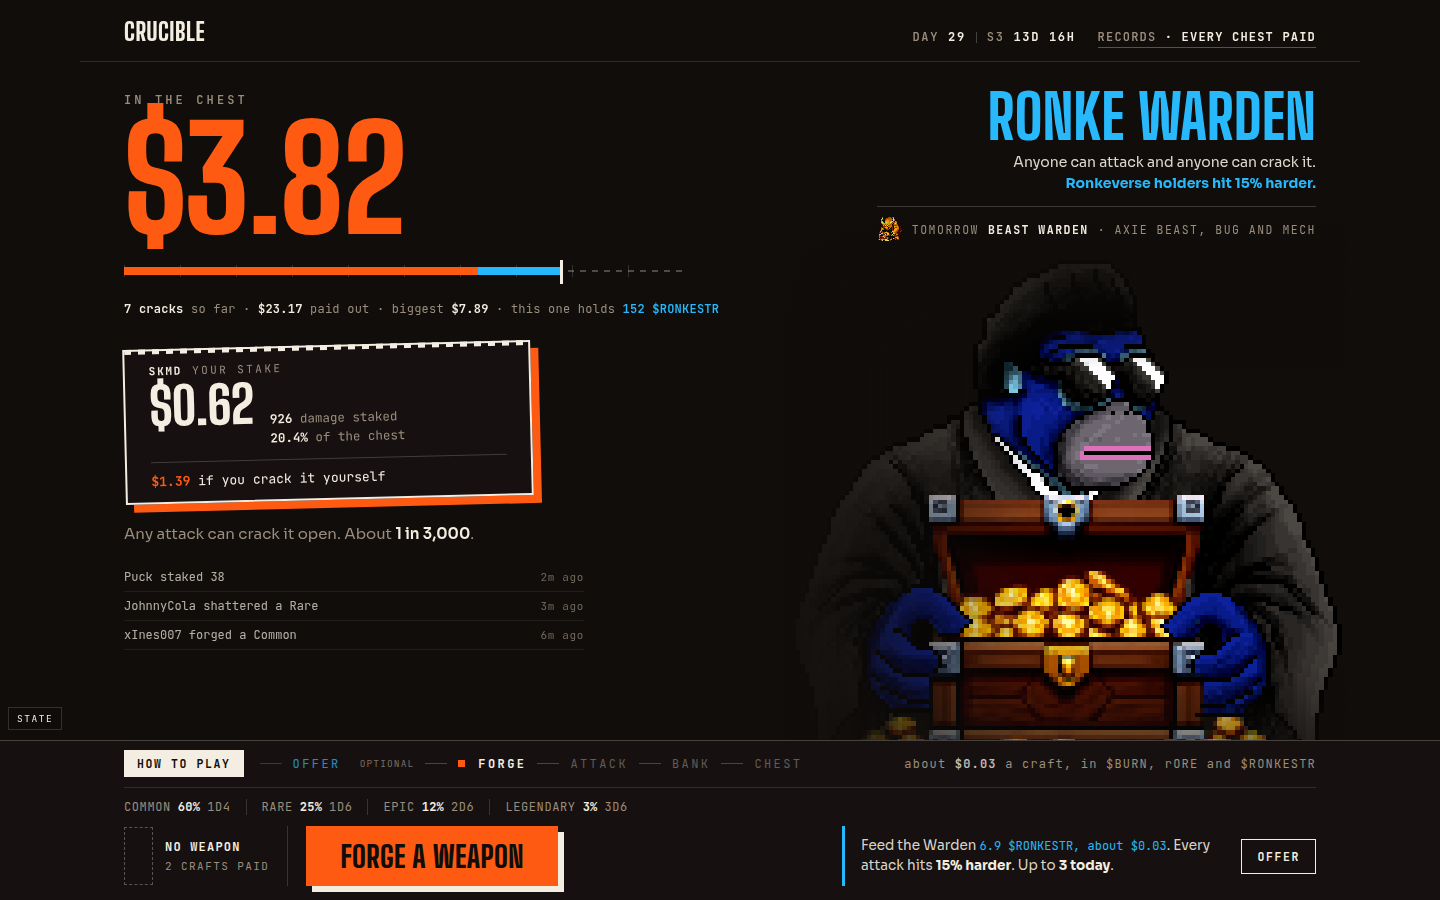
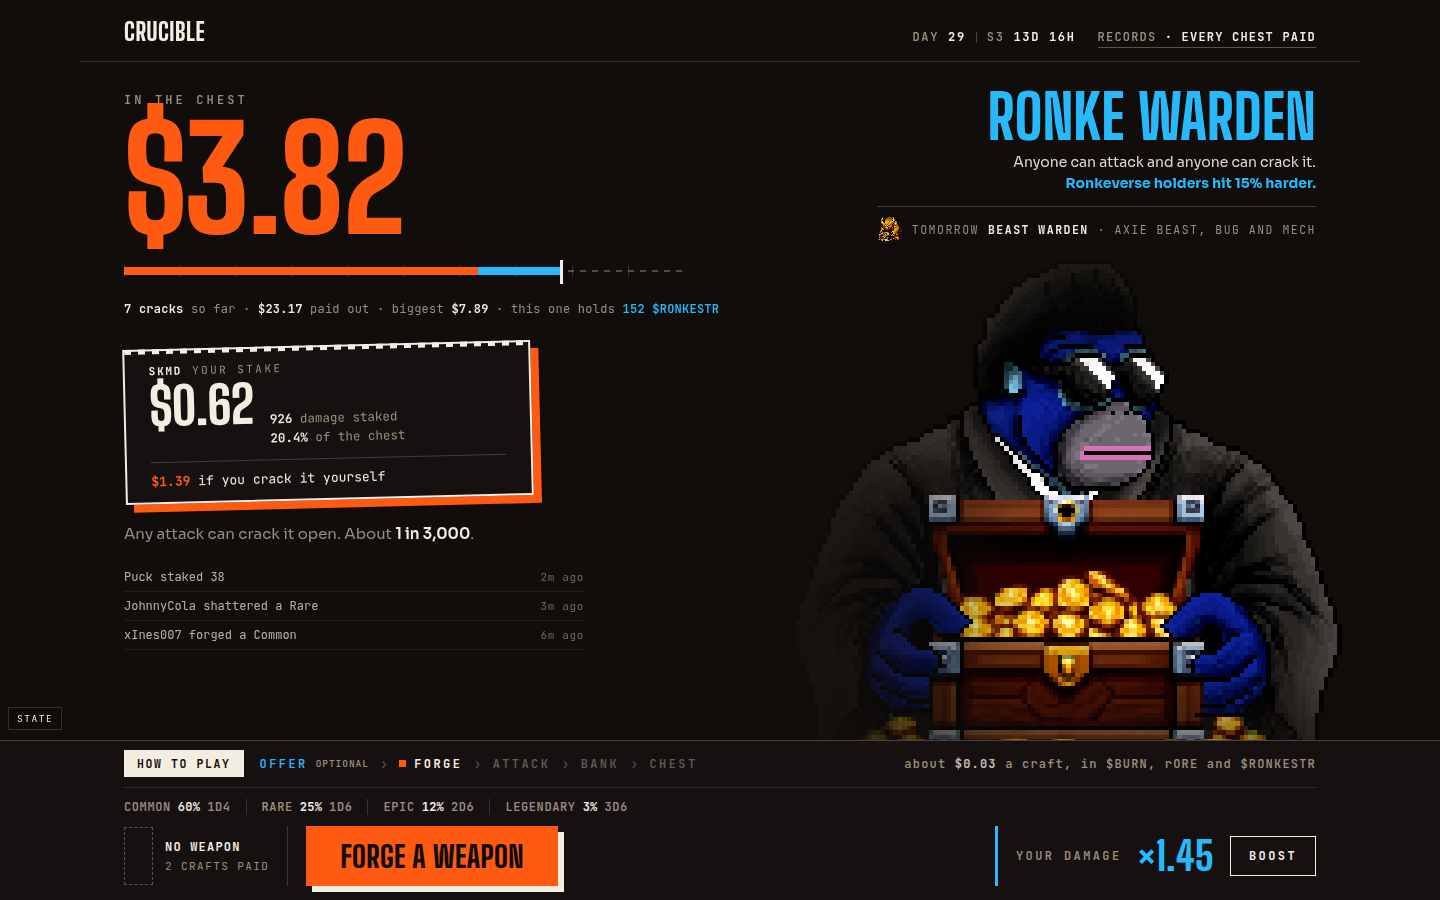
arena: D rev3, rail typography and consolidated boosts

Changed region(s): [[0.5938, 0.9333, 0.9062, 0.9956], [0.1875, 0.84, 0.5, 0.8711], [0.5312, 0.84, 0.5625, 0.8711]]

diff --git a/mockups/arena/arena-d-synthesis.html b/mockups/arena/arena-d-synthesis.html
@@ -254,46 +254,50 @@ button{font:inherit;color:inherit;background:none;border:0;cursor:pointer}
 /* C's rail as a line, not four boxes. Current station is the BRIGHTEST thing
    on it: in C the live step was orange and the steps ahead were white, so the
    steps you could not reach shouted loudest. */
+/* ONE type system for the whole rail: mono, uppercase, 12px, two weights.
+   Labels are muted 600, values are bone 700. The display face appears on
+   exactly two things down here, the Attack and Bank buttons, because they are
+   the only objects that are not data. No underlines, no third size, no second
+   body font. */
 .line{
   display:flex;align-items:center;gap:0;
   padding:9px 0 10px;border-bottom:1px solid rgba(244,237,225,.12);
-  font-family:var(--mono);font-size:12px;letter-spacing:.2em;text-transform:uppercase;
+  font-family:var(--mono);font-size:12px;font-weight:600;
+  letter-spacing:.2em;text-transform:uppercase;
 }
-.line .st{display:flex;align-items:center;gap:11px;color:rgba(244,237,225,.34)}
-.line .st + .st{margin-left:11px}
-.line .st::before{content:"";width:22px;height:1px;background:rgba(244,237,225,.24);display:block}
-.line .st:first-child::before{display:none}
+.line .st{display:flex;align-items:center;gap:8px;color:rgba(244,237,225,.34)}
+.line .chev{color:rgba(244,237,225,.26);margin:0 11px;font-size:14px;letter-spacing:0}
 .line .st.done{color:rgba(244,237,225,.5)}
 .line .st.live{color:var(--bone);font-weight:700}
-.line .st.live em{
-  font-style:normal;display:inline-block;width:7px;height:7px;background:var(--ember);
-  margin-right:2px;
+/* the one state marker in the rail, reused everywhere it is needed rather than
+   inventing a second device */
+.line .st.live em,.status .s.risked b::before{
+  content:"";font-style:normal;display:inline-block;
+  width:7px;height:7px;background:var(--ember);
 }
-.line .st.ready{color:var(--bone);font-weight:600}
-.line .st.ready s{text-decoration:none;border-bottom:2px solid var(--ember);padding-bottom:2px}
+.line .st.ready{color:var(--bone);font-weight:700}
 /* the offering leads the sequence because it only buffs attacks that come
    after it, but it is optional and must not read as a gate */
-.line .st.opt{color:var(--warden);opacity:.75}
-.line .st.opt::after{content:"optional";margin-left:8px;font-size:9.5px;letter-spacing:.12em;color:var(--muted)}
+.line .st.opt{color:var(--warden)}
+.line .st.opt::after{content:"optional";font-size:9.5px;letter-spacing:.1em;color:var(--muted)}
 /* the craft price has to survive into the armed state: that is where the
    repeat spending happens and every direction dropped it there */
-.line .price{margin-left:auto;color:var(--muted);letter-spacing:.1em;text-transform:none;font-size:12px}
-.line .price b{color:rgba(244,237,225,.8);font-weight:600}
+.line .price{margin-left:auto;color:var(--muted);letter-spacing:.1em;text-transform:none}
+.line .price b{color:rgba(244,237,225,.8);font-weight:700}
 
 .status{
   display:flex;align-items:center;gap:0;flex-wrap:wrap;margin-top:11px;
-  font-family:var(--mono);font-size:12px;letter-spacing:.05em;
+  font-family:var(--mono);font-size:12px;font-weight:600;letter-spacing:.05em;
   text-transform:uppercase;color:var(--muted);
 }
-.status .s{padding:0 15px;display:flex;align-items:baseline;gap:7px;border-left:1px solid rgba(244,237,225,.16)}
+.status .s{padding:0 15px;display:flex;align-items:center;gap:7px;border-left:1px solid rgba(244,237,225,.16)}
 .status .s:first-child{padding-left:0;border-left:0}
-.status .s b{color:var(--bone);font-weight:700;letter-spacing:.02em}
+.status .s b{color:var(--bone);font-weight:700;letter-spacing:.02em;display:flex;align-items:center;gap:6px}
 .status .s.tier b{color:var(--warden)}
-/* banked vs at-risk cannot be told apart by hue alone: it is money state at
-   ~10px, and it failed for the colour-blind reviewer in every direction */
-.status .s.safe b{border-bottom:2px solid rgba(244,237,225,.55);padding-bottom:1px}
-.status .s.risked b{color:var(--ember);border-bottom:2px dashed var(--ember);padding-bottom:1px}
-.status .s.risked::after{content:"at risk";position:absolute;left:-9999px}
+/* at-risk is marked by the same ember square the live station uses, not by a
+   colour or an underline of its own: money state must survive colour blindness
+   and it must not add a device */
+.status .s.risked b{color:var(--ember)}
 
 .meter{display:flex;gap:3px;margin-left:4px}
 .meter i{width:7px;height:12px;background:rgba(244,237,225,.16);display:block}
@@ -324,21 +328,58 @@ button{font:inherit;color:inherit;background:none;border:0;cursor:pointer}
 .btn-ghost:active{transform:translate(3px,3px);box-shadow:2px 2px 0 rgba(244,237,225,.24)}
 .btn small{font-family:var(--mono);font-size:13px;font-weight:600;letter-spacing:.04em;opacity:.85}
 
-/* the offering is priced in dollars like everything else. Leaving it in raw
-   tokens, two inches under a pot we happily price, read as deliberate. */
-.offering{
+/* every multiplier collapsed into one object: a label, a number, a button.
+   Same mono system as the rest of the rail. */
+.boost{
   margin-left:auto;display:flex;align-items:center;gap:16px;
-  border-left:3px solid var(--warden);padding:6px 0 6px 16px;max-width:474px;
+  border-left:3px solid var(--warden);padding:4px 0 4px 18px;
 }
-.offering p{font-size:13.5px;line-height:1.45;color:rgba(244,237,225,.9)}
-.offering p b{color:var(--bone);font-weight:700}
-.offering p em{font-style:normal;color:var(--warden);font-family:var(--mono);font-size:12px}
-.btn-offer{
-  border:1px solid var(--bone);color:var(--bone);padding:9px 15px;white-space:nowrap;
-  font-family:var(--mono);font-size:11.5px;font-weight:700;letter-spacing:.14em;text-transform:uppercase;
+.boost-k{
+  font-family:var(--mono);font-size:12px;font-weight:600;letter-spacing:.2em;
+  text-transform:uppercase;color:var(--muted);
+}
+.boost-v{
+  font-family:var(--disp);font-weight:800;font-size:40px;line-height:.9;
+  color:var(--warden);font-variant-numeric:tabular-nums;
+}
+.btn-boost{
+  border:1px solid var(--bone);color:var(--bone);padding:11px 18px;white-space:nowrap;
+  font-family:var(--mono);font-size:12px;font-weight:700;letter-spacing:.2em;text-transform:uppercase;
   transition:background .15s ease,color .15s ease;
 }
-.btn-offer:hover{background:var(--bone);color:var(--ink)}
+.btn-boost:hover{background:var(--bone);color:var(--ink)}
+
+/* buff list inside the boost sheet, same two-weight mono discipline */
+.buffs{list-style:none;margin-top:4px}
+.buffs li{
+  display:grid;grid-template-columns:auto 1fr auto;gap:14px;align-items:baseline;
+  padding:13px 0 12px;border-bottom:1px solid rgba(244,237,225,.1);
+}
+.buffs .tag{
+  font-family:var(--mono);font-size:10.5px;font-weight:700;letter-spacing:.16em;
+  text-transform:uppercase;padding:3px 7px;
+}
+.buffs li.on .tag{background:var(--ember);color:var(--ink)}
+.buffs li.off .tag{border:1px solid rgba(244,237,225,.3);color:var(--muted)}
+.buffs .nm{font-size:16px;font-weight:700}
+.buffs li.off .nm{color:var(--muted)}
+.buffs .amt{font-family:var(--mono);font-size:15px;font-weight:700;color:var(--bone)}
+.buffs li.off .amt{color:var(--muted)}
+.buffs p{grid-column:2 / -1;margin-top:5px;font-size:13px;line-height:1.5;color:var(--muted)}
+
+.buff-sum{
+  display:flex;align-items:baseline;gap:10px;margin-top:16px;padding-top:14px;
+  border-top:3px solid var(--bone);
+  font-family:var(--mono);font-size:11.5px;font-weight:600;letter-spacing:.18em;
+  text-transform:uppercase;color:var(--muted);
+}
+.buff-sum b{font-family:var(--disp);font-weight:800;font-size:32px;line-height:.9;letter-spacing:0}
+.buff-sum b.now{color:var(--warden)}
+.buff-sum b.max{color:var(--bone)}
+.buff-sum .arrow{margin:0 4px}
+.sheet-fine{
+  margin-top:11px;font-family:var(--mono);font-size:11px;line-height:1.5;color:var(--muted);
+}
 
 body[data-state="forge"] .only-weapon{display:none}
 body[data-state="weapon"] .only-forge{display:none}
@@ -377,8 +418,8 @@ body[data-state="weapon"] .only-forge{display:none}
 .steps li b{font-size:17px;font-weight:700}
 .steps li p{margin-top:6px;font-size:14px;line-height:1.55;color:var(--muted)}
 .opttag{
-  font-family:var(--mono);font-size:10.5px;letter-spacing:.12em;text-transform:uppercase;
-  color:var(--warden);margin-left:9px;
+  font-family:var(--mono);font-size:10.5px;font-weight:700;letter-spacing:.16em;
+  text-transform:uppercase;color:var(--muted);margin-left:9px;
 }
 .sheet-go{margin-top:22px;width:100%;font-size:26px;height:56px}
 
@@ -444,7 +485,10 @@ body[data-state="weapon"] .only-forge{display:none}
   .steps li b{font-size:15px}
   .steps li p{font-size:12.5px;line-height:1.5;margin-top:4px}
   .opttag{display:block;margin-left:0;margin-top:3px}
-  .sheet-go{font-size:21px;height:46px;margin-top:14px}
+  /* the action label and its price stop fighting for one line on a phone */
+  .sheet-go{font-size:21px;height:auto;min-height:46px;padding:9px 14px;margin-top:14px;
+    flex-direction:column;gap:3px;line-height:1.05}
+  .sheet-go small{font-size:10.5px;letter-spacing:.06em}
 
   .kicker{margin-top:22px;font-size:11px;letter-spacing:.22em}
   .pot{font-size:88px;margin-top:8px}
@@ -482,9 +526,17 @@ body[data-state="weapon"] .only-forge{display:none}
   .btn-primary{box-shadow:5px 5px 0 var(--bone)}
   .btn-ghost{box-shadow:4px 4px 0 rgba(244,237,225,.24)}
   .btn small{font-size:11px}
-  .offering{grid-column:1 / -1;margin-left:0;max-width:none;order:-1;padding:5px 0 5px 11px;gap:10px}
-  .offering p{font-size:11.5px;line-height:1.35}
-  .btn-offer{padding:7px 10px;font-size:10px;letter-spacing:.09em}
+  .boost{grid-column:1 / -1;margin-left:0;order:-1;padding:4px 0 4px 11px;gap:12px}
+  .boost-k{font-size:10.5px;letter-spacing:.14em}
+  .boost-v{font-size:30px;margin-left:auto}
+  .btn-boost{padding:9px 13px;font-size:11px;letter-spacing:.14em}
+  .buffs li{padding:11px 0 10px;gap:10px}
+  .buffs .nm{font-size:14.5px}
+  .buffs .amt{font-size:14px}
+  .buffs p{font-size:12.5px;margin-top:4px}
+  .buff-sum{font-size:10.5px;letter-spacing:.12em;gap:7px;margin-top:13px;padding-top:11px}
+  .buff-sum b{font-size:26px}
+  .sheet-fine{font-size:10.5px}
   .pop{font-size:30px}
 }
 
@@ -533,6 +585,54 @@ body[data-state="weapon"] .only-forge{display:none}
       </li>
     </ol>
     <button class="btn btn-primary sheet-go" data-close>Got it</button>
+  </div>
+</div>
+
+<!-- Boosts. Everything that multiplies your damage, in one place, including the
+     two a player has not switched on yet. -->
+<div class="sheet" id="boostSheet" hidden>
+  <div class="sheet-scrim" data-close></div>
+  <div class="sheet-panel" role="dialog" aria-modal="true" aria-labelledby="boost-title">
+    <div class="sheet-head">
+      <h2 id="boost-title">Your damage</h2>
+      <button class="sheet-x" data-close aria-label="Close">&times;</button>
+    </div>
+
+    <ul class="buffs">
+      <li class="on">
+        <span class="tag">On</span>
+        <span class="nm">Ronkeverse NFT</span>
+        <span class="amt">+15%</span>
+        <p>Today's Warden is a Ronke. Your linked wallet holds one.</p>
+      </li>
+      <li class="on">
+        <span class="tag">On</span>
+        <span class="nm">Offerings &times;2</span>
+        <span class="amt">+30%</span>
+        <p>Two fed to the Warden today. One more allowed.</p>
+      </li>
+      <li class="off">
+        <span class="tag">Off</span>
+        <span class="nm">Atia's Blessing</span>
+        <span class="amt">+3%</span>
+        <p>Keep a 7 day streak in Axie Infinity. 30 days pays 5%, 100 days pays 8%.</p>
+      </li>
+      <li class="off">
+        <span class="tag">Off</span>
+        <span class="nm">Hold RON</span>
+        <span class="amt">+10%</span>
+        <p>Hold any RON in your linked wallet.</p>
+      </li>
+    </ul>
+
+    <div class="buff-sum">
+      <span>Now</span><b class="now">&times;1.45</b>
+      <span class="arrow">&rarr;</span>
+      <span>All on</span><b class="max">&times;1.58</b>
+    </div>
+
+    <button class="btn btn-primary sheet-go" data-close>Feed the Warden <small>6.9 $RONKESTR, about $0.03</small></button>
+    <p class="sheet-fine">One offering left today. It only boosts attacks made after it lands.</p>
   </div>
 </div>
 
@@ -609,9 +709,13 @@ body[data-state="weapon"] .only-forge{display:none}
     <div class="line" id="line">
       <button class="howto" id="howto">How to play</button>
       <span class="st opt" id="stOffer">Offer</span>
+      <span class="chev">&rsaquo;</span>
       <span class="st" id="stForge">Forge</span>
+      <span class="chev">&rsaquo;</span>
       <span class="st" id="stStrike">Attack</span>
+      <span class="chev">&rsaquo;</span>
       <span class="st" id="stBank">Bank</span>
+      <span class="chev">&rsaquo;</span>
       <span class="st" id="stChest">Chest</span>
       <span class="price">about <b>$0.03</b> a craft<span class="tokens">, in $BURN, rORE and $RONKESTR</span></span>
     </div>
@@ -644,9 +748,12 @@ body[data-state="weapon"] .only-forge{display:none}
 
       <button class="btn btn-primary only-forge" id="forge">Forge a weapon</button>
 
-      <div class="offering">
-        <p>Feed the Warden <em>6.9&nbsp;$RONKESTR, about&nbsp;$0.03</em>. Every attack hits <b>15% harder</b>. Up to <b>3 today</b>.</p>
-        <button class="btn-offer">Offer</button>
+      <!-- one object for every multiplier, replacing the offering panel. The
+           number is the whole point; the panel behind it is where you act. -->
+      <div class="boost">
+        <span class="boost-k">Your damage</span>
+        <span class="boost-v" id="boostVal">&times;1.45</span>
+        <button class="btn-boost" id="boostBtn">Boost</button>
       </div>
     </div>
 
@@ -675,16 +782,22 @@ body[data-state="weapon"] .only-forge{display:none}
     $('stChest').className  = 'st';
     $('stForge').innerHTML  = forging ? '<em></em>Forge' : 'Forge';
     $('stStrike').innerHTML = forging ? 'Attack' : '<em></em>Attack';
-    $('stBank').innerHTML   = (!forging && st.risk > 0) ? '<s>Bank</s>' : 'Bank';
+    $('stBank').innerHTML   = 'Bank';
   }
 
-  /* ---- how to play ---- */
-  var sheet = $('sheet');
-  function openSheet(){ sheet.hidden = false; sheet.querySelector('.sheet-x').focus(); }
-  function closeSheet(){ sheet.hidden = true; $('howto').focus(); }
-  $('howto').addEventListener('click', openSheet);
-  sheet.addEventListener('click', function(e){ if (e.target.closest('[data-close]')) closeSheet(); });
-  document.addEventListener('keydown', function(e){ if (e.key === 'Escape' && !sheet.hidden) closeSheet(); });
+  /* ---- overlays: how to play, and boosts ---- */
+  function wireSheet(sheetId, openerId){
+    var sheet = $(sheetId), opener = $(openerId);
+    function close(){ sheet.hidden = true; opener.focus(); }
+    opener.addEventListener('click', function(){
+      sheet.hidden = false;
+      sheet.querySelector('.sheet-x').focus();
+    });
+    sheet.addEventListener('click', function(e){ if (e.target.closest('[data-close]')) close(); });
+    document.addEventListener('keydown', function(e){ if (e.key === 'Escape' && !sheet.hidden) close(); });
+  }
+  wireSheet('sheet', 'howto');
+  wireSheet('boostSheet', 'boostBtn');
 
   function renderRisk(){
     var pct = Math.round(st.shatter*100);

diff --git a/mockups/arena/PLAN.md b/mockups/arena/PLAN.md
@@ -311,3 +311,31 @@ Four changes, all from the operator looking at the build.
 Screenshots: `shots/d-synthesis-{desktop,mobile}.png`, the forge state, and the overlay at
 both breakpoints.
 
+### D revision 3 (operator review, 2026-07-30)
+
+The rail was still busy: several families, several weights, two different underline
+devices, and a body-copy paragraph sitting next to monospaced data.
+
+1. **One type system in the rail.** Mono, uppercase, 12px, exactly two weights: labels are
+   muted 600, values are bone 700. The display face now appears on precisely two objects
+   down there, the Attack and Bank buttons, because they are the only things in the rail
+   that are not data. Every underline is gone.
+2. **The at-risk marker is the same ember square the live station uses**, rather than a
+   dashed underline of its own. Money state still survives colour blindness, and it costs
+   one device instead of three.
+3. **Chevrons carry the progression**: `Offer › Forge › Attack › Bank › Chest`, replacing
+   the drawn connector rules.
+4. **Every multiplier collapsed into one object.** The rail now reads
+   `Your damage ×1.45 [Boost]`, and the offering panel is gone. Behind the button is a
+   panel listing all four buffs, each with an On or Off tag, what it pays, and what it
+   takes to switch on. The offering action lives at the bottom of it.
+   This is where **Atia's Blessing (+3/5/8%)** and **holding RON (+10%)** finally become
+   visible, which they were not anywhere in the product before. Both are shown as available
+   to earn rather than active, which is honest: they need a linked wallet, and the RON buff
+   is still waiting on the next crack to be switched on in production.
+5. The panel closes with `Now ×1.45 → All on ×1.58`, so the upside of the two unearned
+   buffs is a number rather than an inference.
+
+The rail went from five type treatments to two, and from two objects on the right (offering
+copy plus an Offer button) to one.
+
